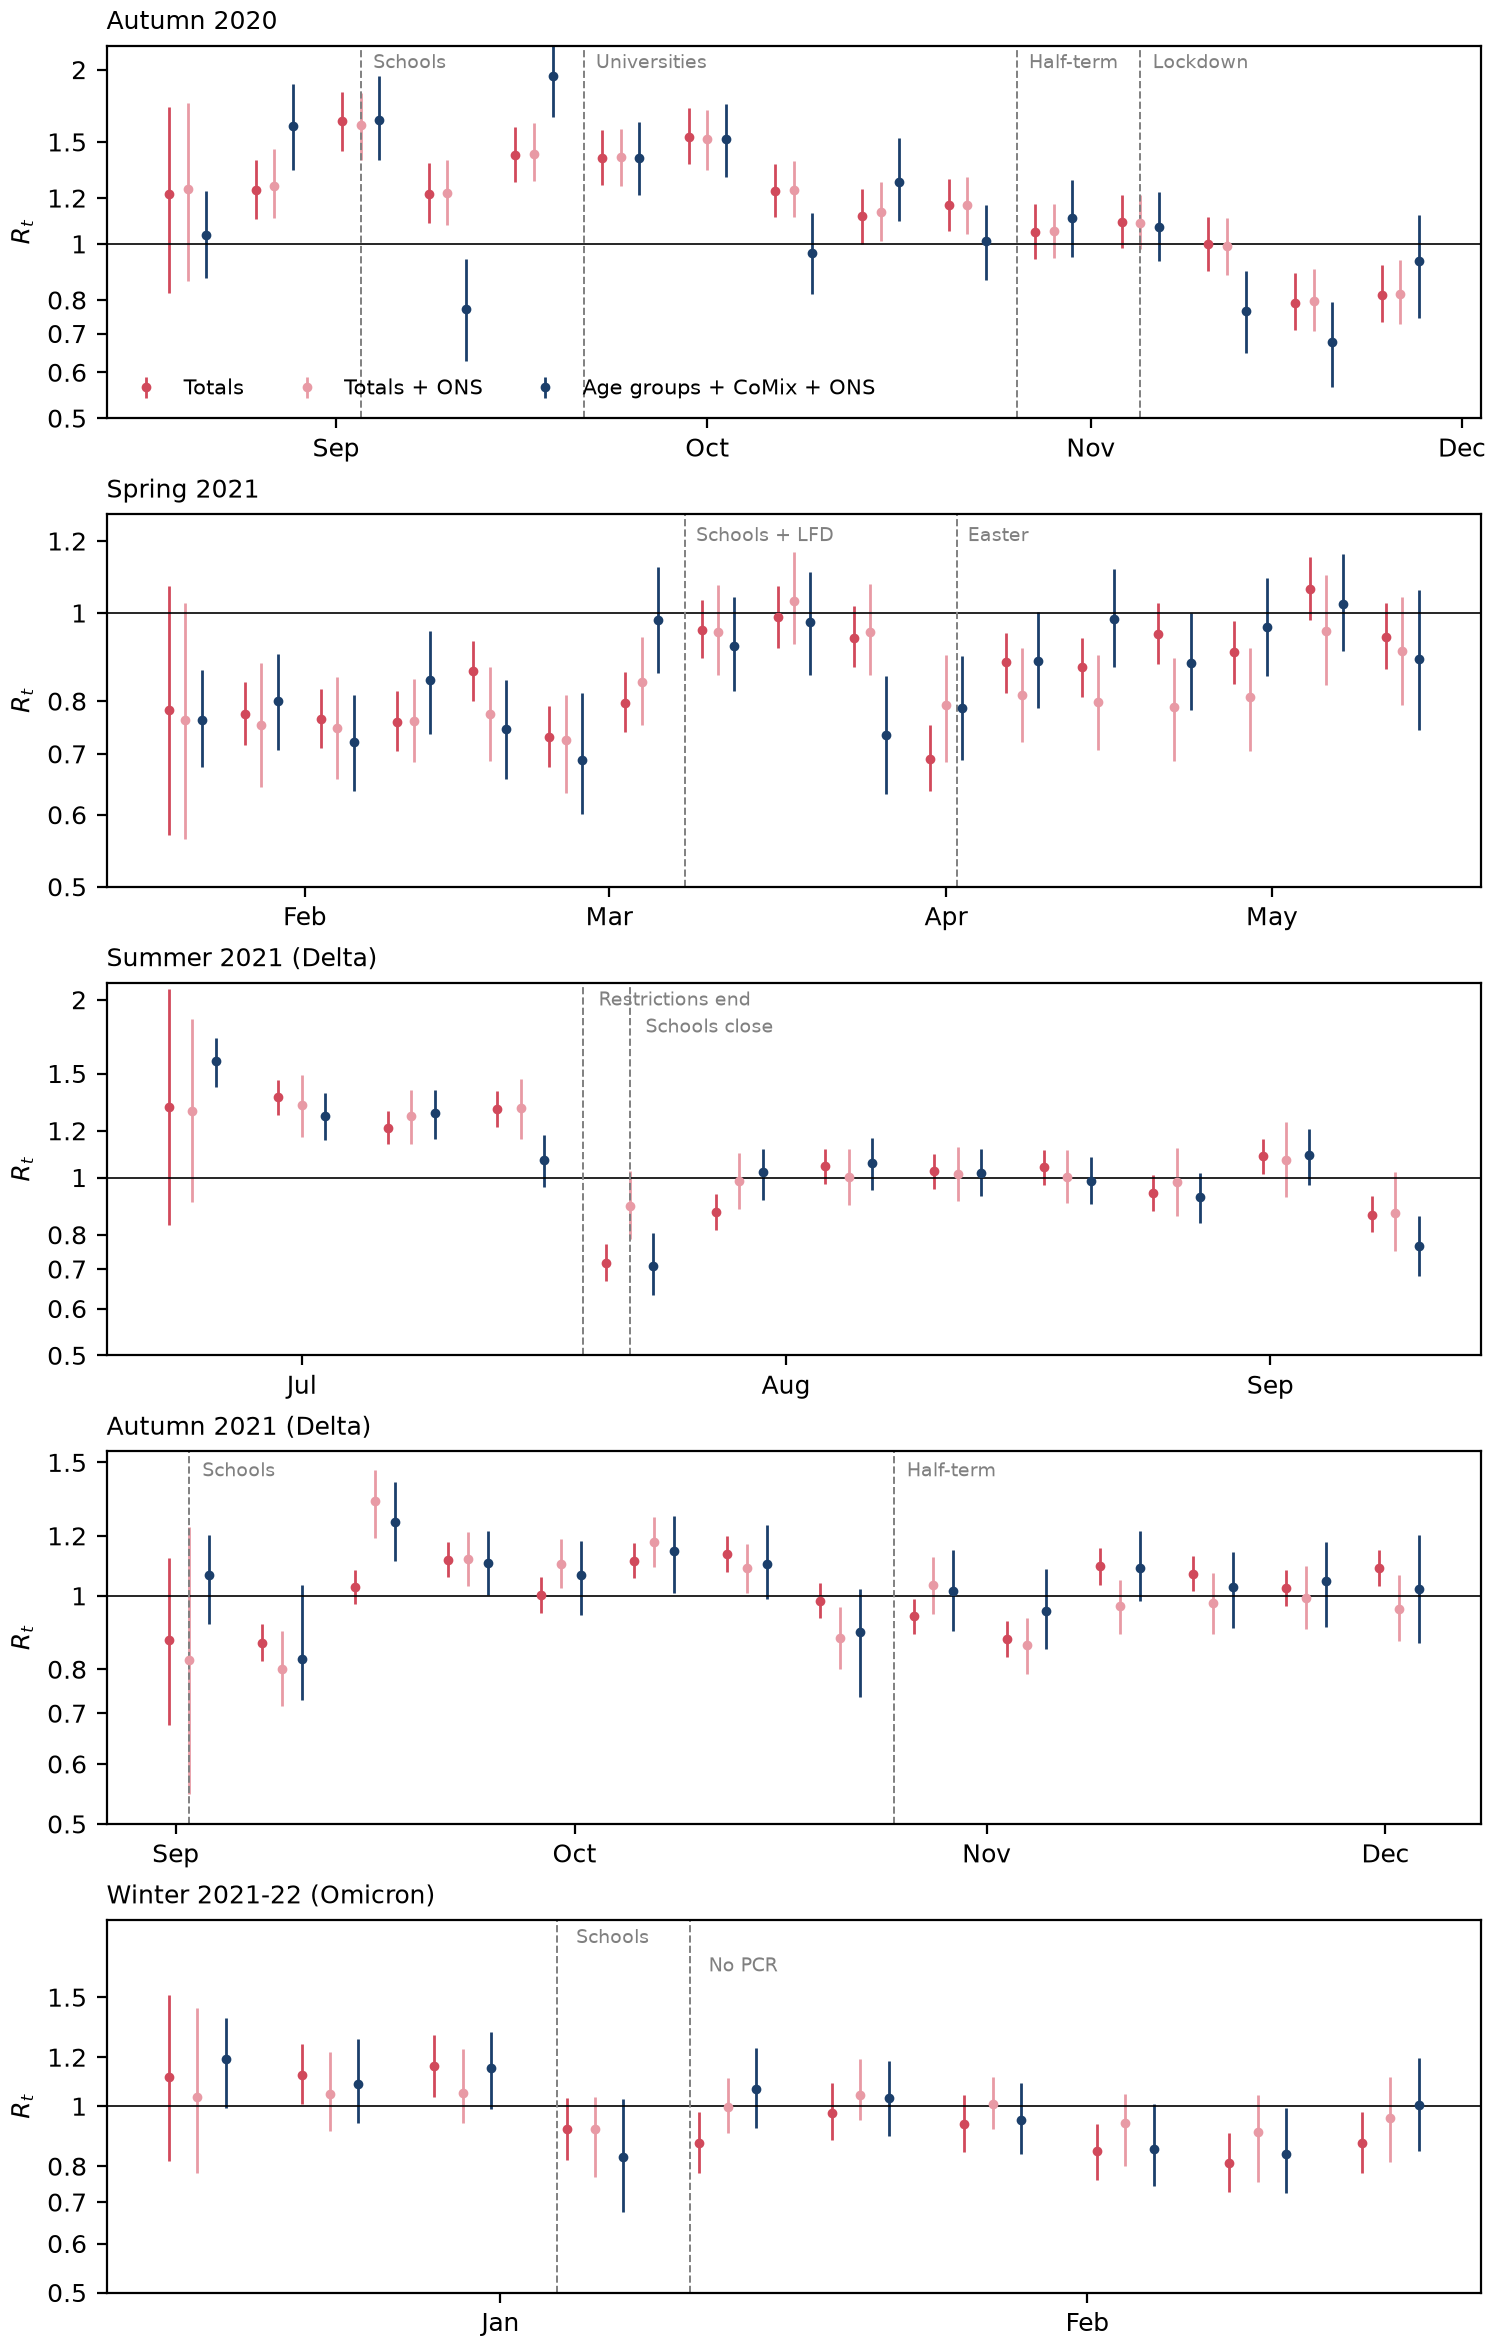
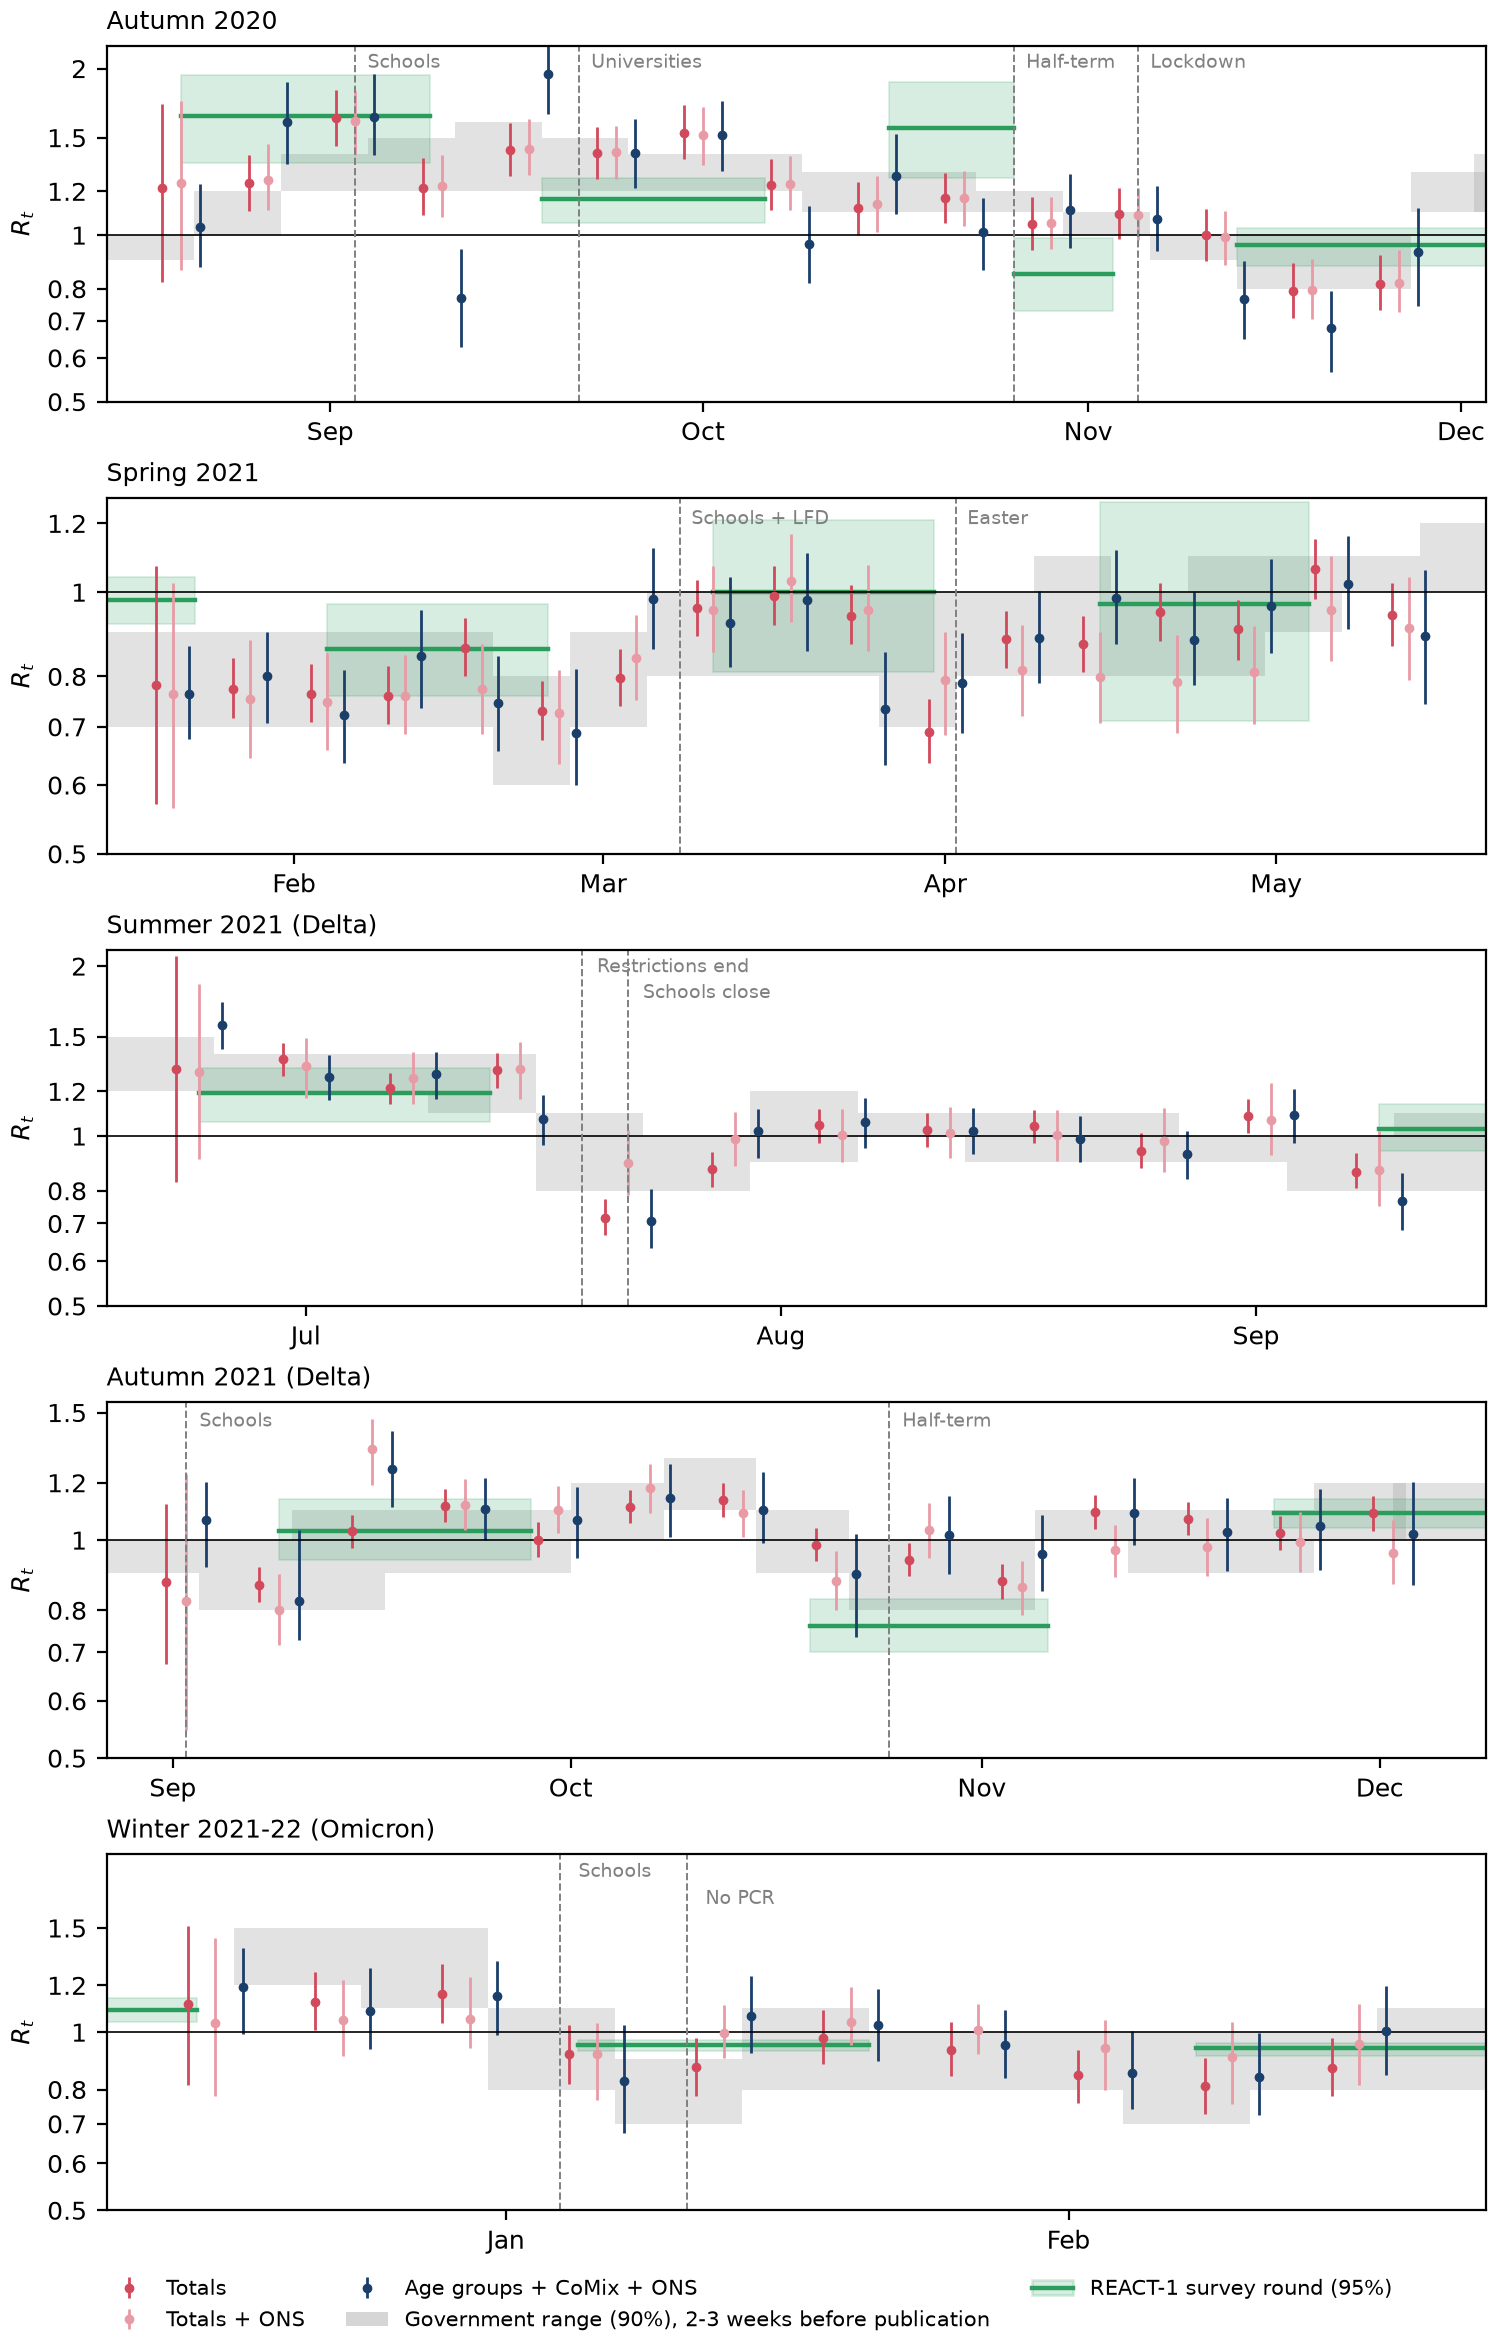
Summary figure: add government R ranges and REACT-1 round estimates as outside benchmarks

diff --git a/plot_england_summary.py b/plot_england_summary.py
@@ -1,12 +1,18 @@
 """One figure comparing R_t across the England periods for three fits: totals, totals + ONS,
 and the multi-group model with the survey (the best available version: hidden infections if
-run, else reporting sd by age, else the shared sd).
+run, else reporting sd by age, else the shared sd), with outside estimates for comparison:
+  - the government's published range for England (grey band; 90% intervals combining many models,
+    each placed 2-3 weeks before its publication date, the period it is said to describe),
+  - REACT-1 random-sample swab survey, R within each round (box: round dates and 95% interval; line:
+    estimate), from data/processed/external/react_R_england.csv (source of each row given there).
 Usage: python plot_england_summary.py   (after run_england.py ... --combine for each period)
 """
 import numpy as np
 import pandas as pd
 import matplotlib.pyplot as plt
 import matplotlib.dates as mdates
+from matplotlib.patches import Patch, Rectangle
+from matplotlib.lines import Line2D
 
 from common import ROOT, log_r_axis
 
@@ -23,6 +29,26 @@ MAIN = ["Hidden infections, random-walk susceptibility by age + ONS", "CoMix x r
 SHOW = {"Single group, totals": ("Totals", "#d1495b"),
         "Single group, totals + ONS, weekly reporting": ("Totals + ONS", "#e89aa5")}
 
+EXT = ROOT / "data" / "processed" / "external"
+OFFICIAL = pd.read_csv(EXT / "official_R_england.csv", parse_dates=["ref_start", "ref_end"])
+REACT = (pd.read_csv(EXT / "react_R_england.csv", parse_dates=["start", "end"])
+         .query("plot == 1") if (EXT / "react_R_england.csv").exists() else None)
+GOV_COL, REACT_COL = "#9a9a9a", "#2a9d5c"
+
+
+def outside(ax, t0, t1):
+    """Draw the government range and REACT-1 rounds that overlap [t0, t1]."""
+    o = OFFICIAL[(OFFICIAL.ref_end >= t0) & (OFFICIAL.ref_start <= t1)].sort_values("ref_start")
+    for _, r in o.iterrows():
+        ax.fill_between([r.ref_start, r.ref_end], r.lo, r.hi, color=GOV_COL, alpha=0.28, lw=0, zorder=0)
+    if REACT is not None:
+        for _, r in REACT[(REACT.end >= t0) & (REACT.start <= t1)].iterrows():
+            w = r.end - r.start + pd.Timedelta(days=1)
+            ax.add_patch(Rectangle((r.start, r.lo), w, r.hi - r.lo, facecolor=REACT_COL, alpha=0.18,
+                                   edgecolor=REACT_COL, lw=0.6, zorder=0.5))
+            ax.plot([r.start, r.start + w], [r.R, r.R], color=REACT_COL, lw=1.6, zorder=0.6)
+
+
 plt.rcParams.update({"font.size": 9})
 fig, axes = plt.subplots(len(PERIODS), 1, figsize=(7.5, 2.35 * len(PERIODS)), squeeze=False)
 axes = axes[:, 0]
@@ -35,6 +61,10 @@ for ax, (tag, title, events) in zip(axes, PERIODS):
         x = res[(res.model == m) & (res.week_start >= start)]
         ax.errorbar(x.week_start + pd.Timedelta(days=3 + off), x["median"],
                     yerr=[x["median"] - x.lo, x.hi - x["median"]], fmt="o", ms=2.5, lw=1, color=col, label=lab)
+    t0 = start - pd.Timedelta(days=3)
+    t1 = res.week_start.max() + pd.Timedelta(days=10)
+    outside(ax, t0, t1)
+    ax.set_xlim(t0, t1)
     ax.axhline(1, color="black", lw=0.6)
     lo, hi = 0.5, min(2.2, res[res.week_start >= start].hi.max() + 0.05)
     log_r_axis(ax, lo, hi)
@@ -49,6 +79,12 @@ for ax, (tag, title, events) in zip(axes, PERIODS):
     ax.set_ylabel("$R_t$")
     ax.xaxis.set_major_locator(mdates.MonthLocator())
     ax.xaxis.set_major_formatter(mdates.DateFormatter("%b"))
-axes[0].legend(fontsize=7.5, frameon=False, loc="lower left", ncol=3)
-fig.tight_layout(pad=0.4)
+handles, labels = axes[0].get_legend_handles_labels()
+handles += [Patch(color=GOV_COL, alpha=0.4, lw=0)]
+labels += ["Government range (90%), 2-3 weeks before publication"]
+if REACT is not None:
+    handles += [(Patch(facecolor=REACT_COL, alpha=0.18, edgecolor=REACT_COL), Line2D([], [], color=REACT_COL, lw=1.6))]
+    labels += ["REACT-1 survey round (95%)"]
+fig.legend(handles, labels, fontsize=7.5, frameon=False, loc="lower center", ncol=3, bbox_to_anchor=(0.5, 0))
+fig.tight_layout(pad=0.4, rect=(0, 0.035, 1, 1))
 fig.savefig(ROOT / "figures" / "england_summary.png", dpi=200)

diff --git a/data/prepare_external.py b/data/prepare_external.py
@@ -1,0 +1,34 @@
+"""Outside estimates of R for England, used as benchmarks in the summary figure.
+
+  official_R_england.csv  government (SPI-M-O, later UKHSA) published ranges for England (90% intervals,
+                          a combination of many models), from the final time series of December 2022.
+                          Each range is said to describe transmission "2 to 3 weeks ago", so it is
+                          given the reference window [published - 21 days, published - 14 days].
+  react_R_england.csv     REACT-1 random-sample swab survey, R within each round or half-round,
+                          entered by hand from the round reports and papers (source URL in each row;
+                          plot = 1 marks the one estimate per period shown in the figure). Intervals
+                          are 95% credible intervals where stated. The generation time assumed by
+                          REACT changes over time (mean 6.3 d in round 15, 4.6 d in round 16, 3.3 d
+                          for Omicron in rounds 17-19). Not produced by this script.
+Usage: python -I data/prepare_external.py   (after python data/download_data.py)
+"""
+from pathlib import Path
+
+import pandas as pd
+
+HERE = Path(__file__).resolve().parent
+RAW, OUT = HERE / "raw" / "external", HERE / "processed" / "external"
+OUT.mkdir(parents=True, exist_ok=True)
+
+x = pd.read_excel(RAW / "r_growth_timeseries_20221221.ods", sheet_name="Table1_-_R", engine="odf", header=None)
+head = x.index[x[1].astype(str).str.strip() == "Date"][0]
+cols = x.loc[head].ffill()
+eng = [j for j in x.columns if cols[j] == "England"]          # lower, upper
+d = x.loc[head + 2:, [1] + eng].dropna(subset=[1])
+d.columns = ["published", "lo", "hi"]
+d = d[pd.to_numeric(d.lo, errors="coerce").notna()].astype({"lo": float, "hi": float})
+d["published"] = pd.to_datetime(d.published.astype(str).str.rstrip("*").str.strip(), format="mixed")
+d["ref_start"] = d.published - pd.Timedelta(days=21)
+d["ref_end"] = d.published - pd.Timedelta(days=14)
+d.to_csv(OUT / "official_R_england.csv", index=False, date_format="%Y-%m-%d")
+print(len(d), "official estimates,", d.published.min().date(), "to", d.published.max().date())

diff --git a/data/download_data.py b/data/download_data.py
@@ -9,6 +9,8 @@ Sources (all open licences):
     https://www.ons.gov.uk/peoplepopulationandcommunity/healthandsocialcare/conditionsanddiseases/datasets/coronaviruscovid19infectionsurveydata
   UKHSA coronavirus dashboard archive, vaccinations by age and upper-tier local authority
     (Open Government Licence v3.0); only the needed files are read from the 760 MB archive
+  UKHSA, R value and growth rate time series (Open Government Licence v3.0)
+    https://www.gov.uk/guidance/the-r-value-and-growth-rate
   ONS mid-2020 population estimates for England by single year of age, via Nomis
     (Open Government Licence v3.0) https://www.nomisweb.co.uk
 Usage: python data/download_data.py
@@ -35,6 +37,9 @@ FILES = {
     # releases of 16 and 30 April 2021: daily modelled positivity by age/school year (28 Feb to 24 Apr 2021)
     "ons_cis/ons_cis_20210416.xlsx": f"{ONS}/previous/v19/covid19infectionsurveydatasets202104161.xlsx",
     "ons_cis/ons_cis_20210430.xlsx": f"{ONS}/previous/v22/covid19infectionsurveydatasets20210430eng1.xlsx",
+    # government (SPI-M-O / UKHSA) published R ranges for England, May 2020 to Dec 2022
+    "external/r_growth_timeseries_20221221.ods": "https://assets.publishing.service.gov.uk/media/63a46e3ed3bf7f375c7d833d/"
+                                                 "221221_R_and_growth_rate_time_series_for_publication_v1.0.ods",
 }
 VACC_ZIP = "https://archive.ukhsa-dashboard.data.gov.uk/coronavirus-dashboard/vaccinations.zip"
 POP_URL = ("https://www.nomisweb.co.uk/api/v01/dataset/NM_2002_1.data.csv?geography=2092957699&date=2020"
